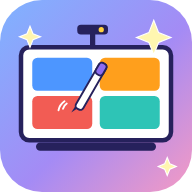
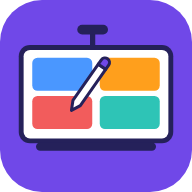
Portail v3.2 : icône plus sobre (fond violet uni, sans étoiles), icône devant le titre, images de partage
Claude-Session: https://claude.ai/code/session_01Te8xrvMufWVNSVLdwnm9Mc

diff --git a/index.html b/index.html
@@ -70,6 +70,9 @@
     font-weight:700;letter-spacing:.5px;line-height:1.05;color:#2B3A67;white-space:nowrap;
   }
   h1 .magique{color:#7048E8}
+  /* Icône du portail devant le titre (la même que l'appli installée) */
+  h1 .icone-titre{height:1.05em;width:auto;vertical-align:-.17em;margin-right:.3em;border-radius:22%;
+    box-shadow:0 4px 10px rgba(43,58,103,.18)}
   #accroche{
     font-size:clamp(14px,min(2vw,2.8vh),24px);font-weight:500;color:#5A6488;
     margin-top:.5vh;
@@ -290,7 +293,7 @@
 <body>
 
 <header>
-  <h1 id="titre">Le tableau <span class="magique">magique</span></h1>
+  <h1 id="titre"><img class="icone-titre" src="images/icone-tableau.svg" alt="">Le tableau <span class="magique">magique</span></h1>
   <p id="accroche">Des outils clés en main à projeter au TBI · du CP au CM2</p>
 </header>
 

diff --git a/sw.js b/sw.js
@@ -17,7 +17,8 @@ const RESERVES = {
   [PREFIXE + 'liste-' + (empreinte >>> 0).toString(36)]: ['outils.js'],
   [PREFIXE + 'portail-' + self.APP_VERSION]: [
     './', 'version.js', 'portail.js', 'sauvegarde.js', 'manifest.webmanifest', 'fonts/fredoka.woff2',
-    'icone-tbi-192.png', 'icone-tbi-512.png', 'icone-tbi-maskable-512.png', 'icone-tbi-apple.png', 'icone-tbi-favicon.png'
+    'icone-tbi-192.png', 'icone-tbi-512.png', 'icone-tbi-maskable-512.png', 'icone-tbi-apple.png', 'icone-tbi-favicon.png',
+    'images/icone-tableau.svg'
   ]
 };
 self.OUTILS.forEach(o => {

diff --git a/version.js b/version.js
@@ -3,4 +3,4 @@
    Il s'affiche en bas de la page d'accueil et déclenche la mise à jour automatique des applis installées.
    Chaque OUTIL a son propre numéro, dans outils.js : c'est celui-là qu'on change quand on modifie un outil.
    M. Guitton — fichier mis au point avec l'aide de Claude AI. */
-self.APP_VERSION = '3.1';
+self.APP_VERSION = '3.2';
